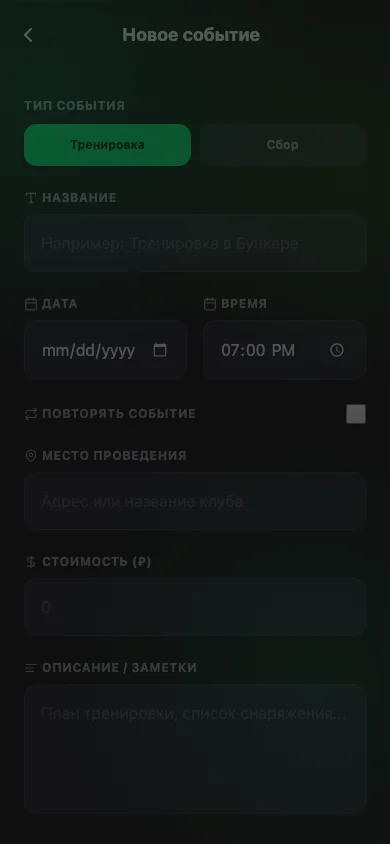
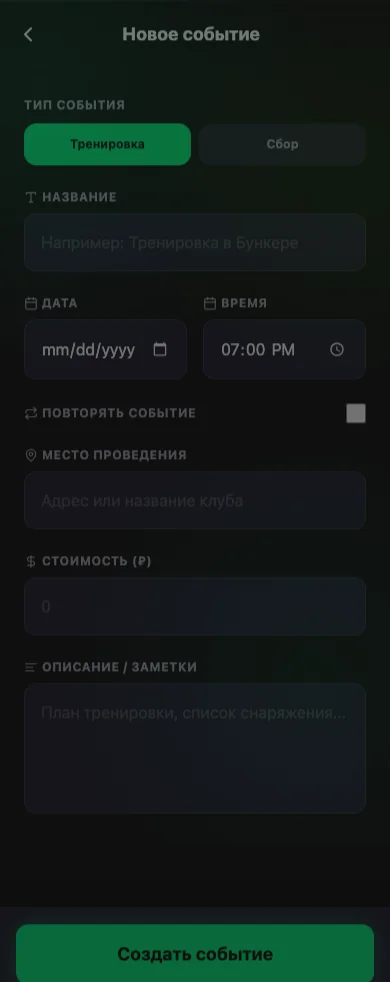
fix(pbth): recapture guide assets clearly

diff --git a/pbth/vite.config.ts b/pbth/vite.config.ts
@@ -50,9 +50,6 @@ export default defineConfig({
       '/api': {
         target: apiTarget,
         changeOrigin: true,
-        bypass(req) {
-          return req.url === '/api.ts' ? req.url : undefined;
-        },
       },
       '/calendar': {
         target: apiTarget,
